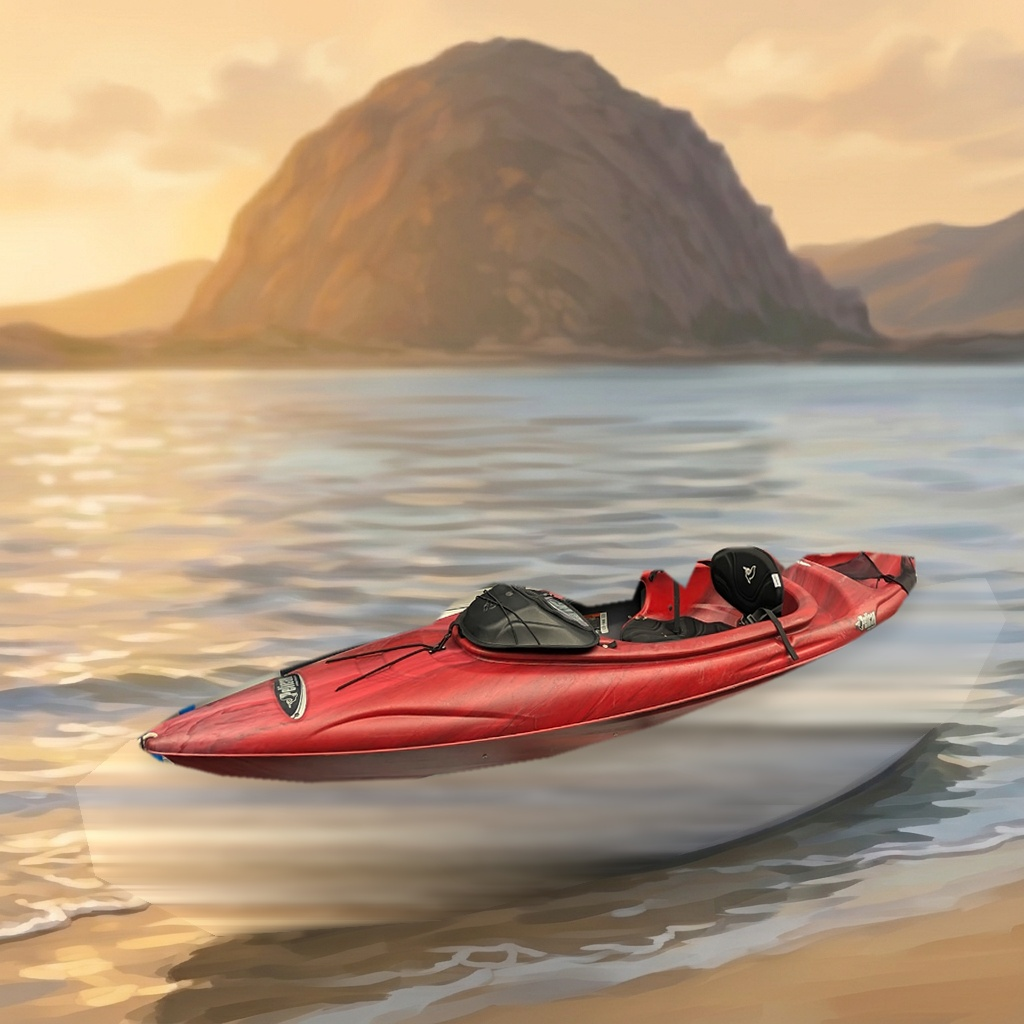
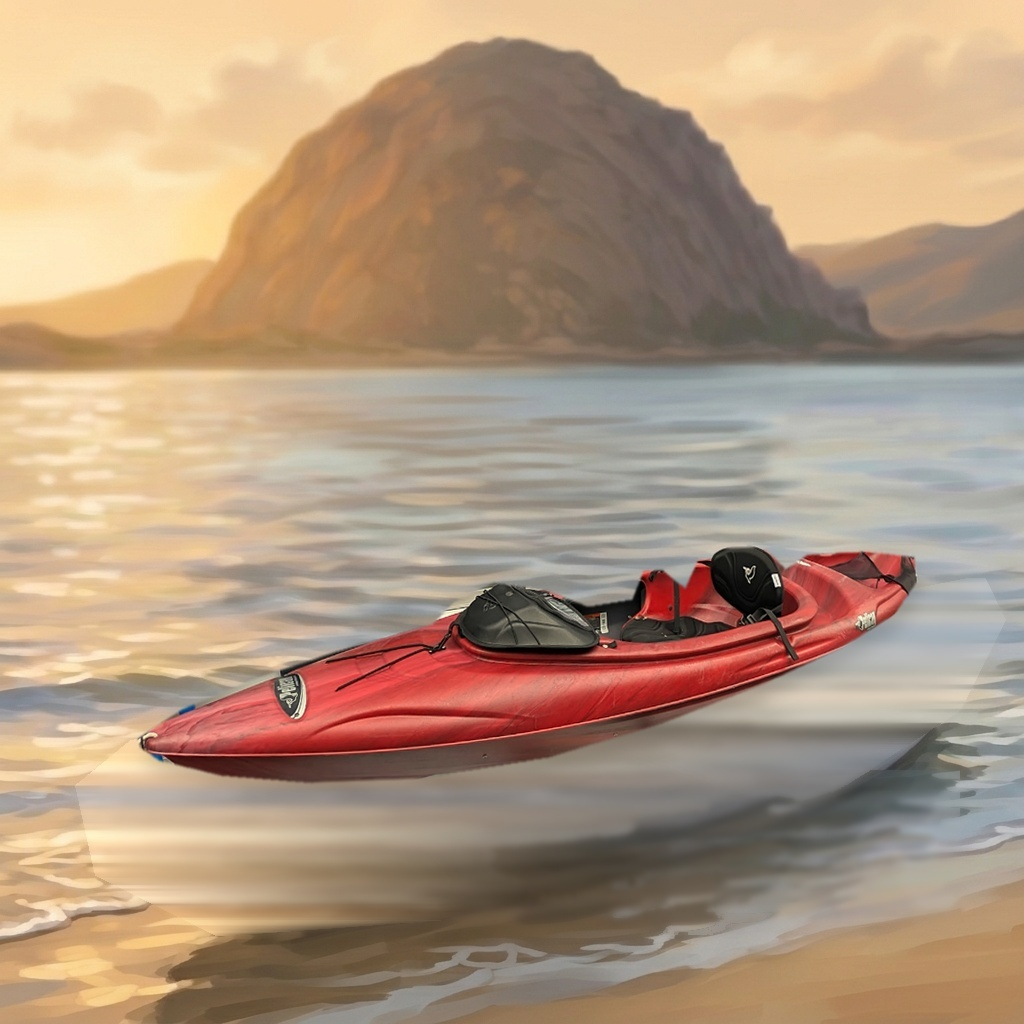
Keep base Indie frame opaque during lip-sync crossfades to eliminate leg shadow flicker

Changed region(s): [[0.5312, 0.75, 0.9375, 0.9062]]

diff --git a/Indies Kayak Forecast/index.html b/Indies Kayak Forecast/index.html
@@ -2458,15 +2458,16 @@
             const blink = document.getElementById('indie-frame-blink');
             if (!closed || !mid || !open) return;
 
+            // Keep base closed frame always opaque so body/legs never crossfade through dark bg
+            closed.style.opacity = '1';
+
             if (indieIsBlinking && blink) {
-                closed.style.opacity = '0';
                 mid.style.opacity = '0';
                 open.style.opacity = '0';
                 blink.style.opacity = '1';
                 return;
             }
             if (blink) blink.style.opacity = '0';
-            closed.style.opacity = frameName === 'closed' ? '1' : '0';
             mid.style.opacity = frameName === 'mid' ? '1' : '0';
             open.style.opacity = frameName === 'open' ? '1' : '0';
         }
